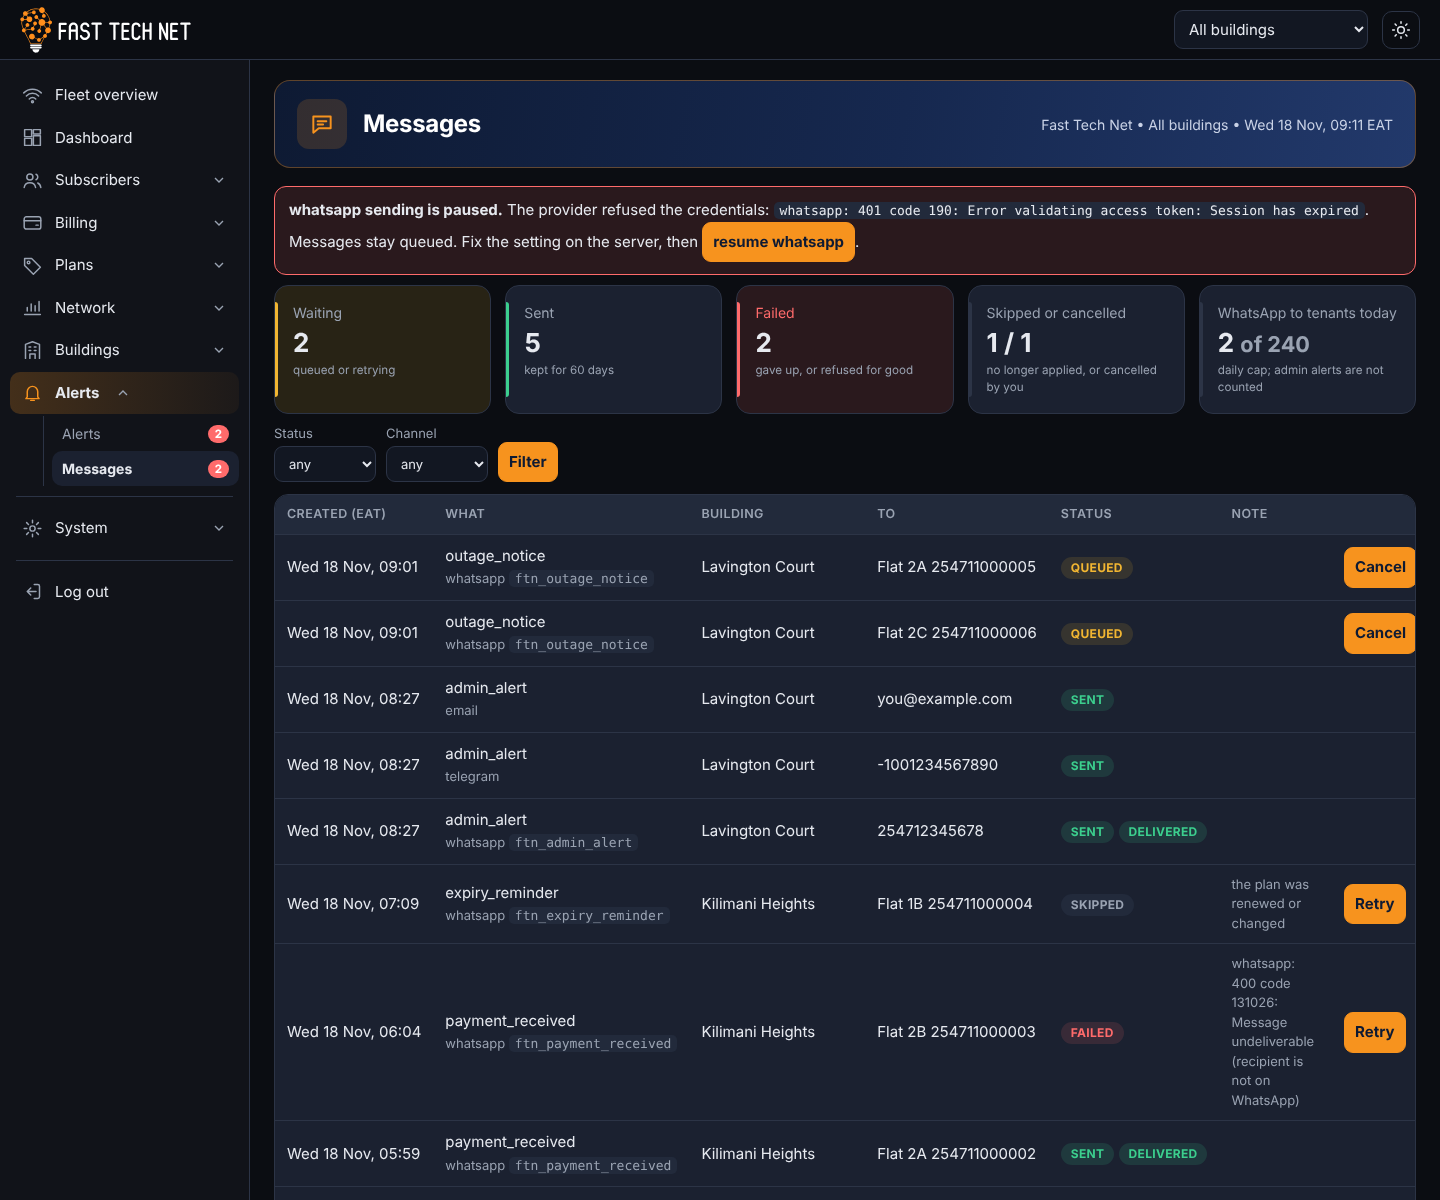
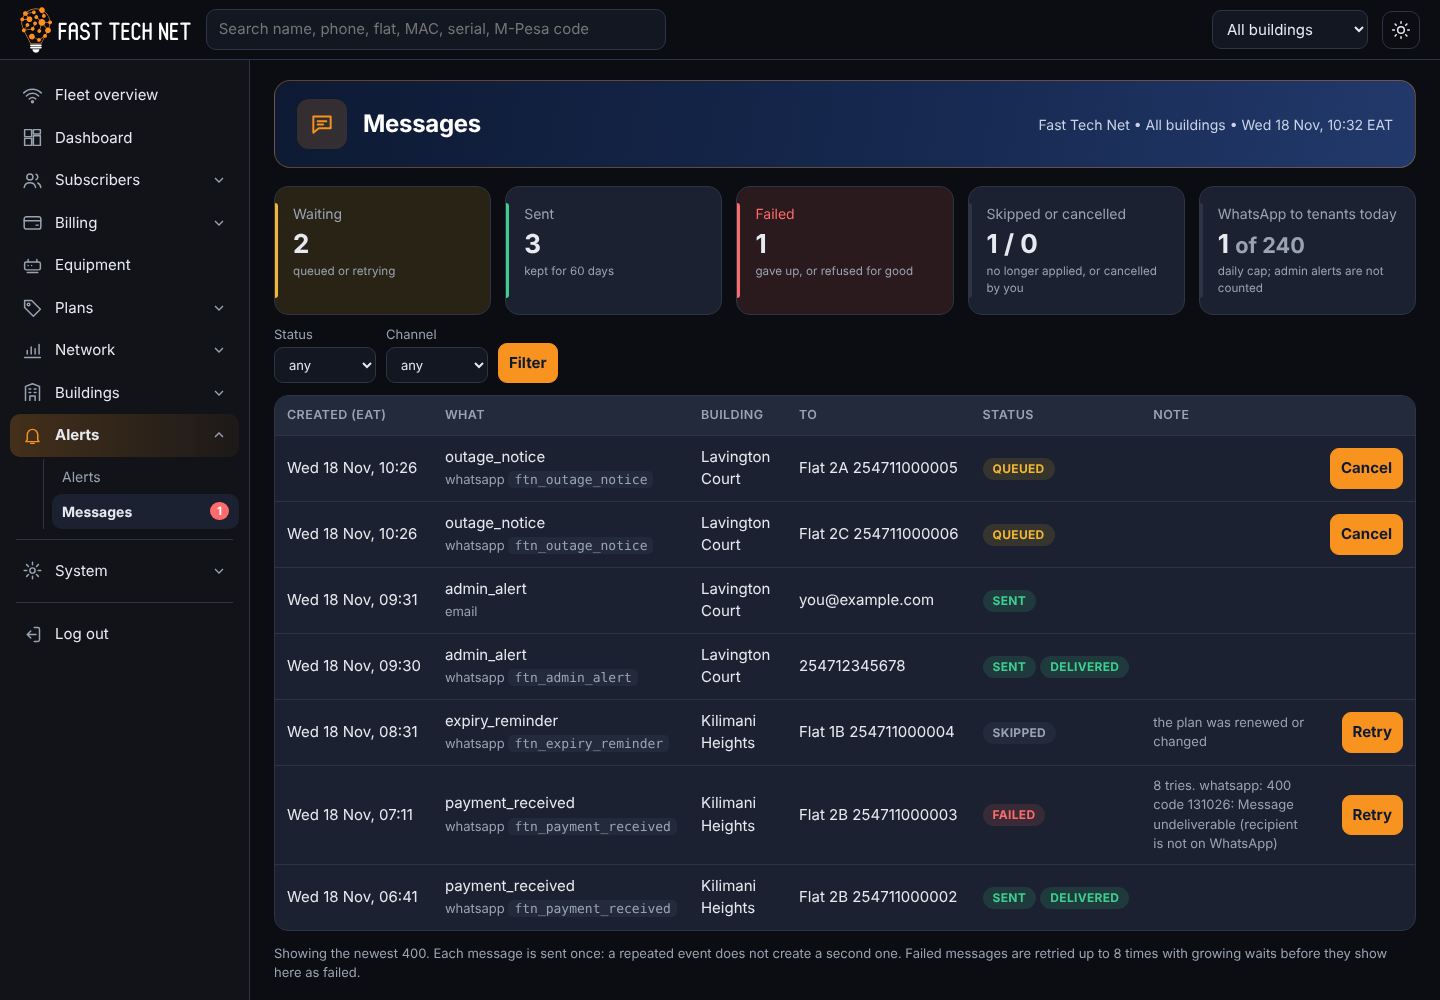
web: Messages table no longer pushes Cancel/Retry past the right edge
The Note column was capped at 150 px while every other column refused to
wrap, so the table grew wider than the page at 1440 px and the action button
was clipped. The building column may now wrap, the Note column gets room, and
the action cell is right-aligned. Screenshot re-taken with sample messages.

Claude-Session: https://claude.ai/code/session_01LiZqzyK1k1cLYYiQPsw9D9

diff --git a/internal/web/templates/admin_messages.html b/internal/web/templates/admin_messages.html
@@ -11,10 +11,10 @@
 </div>
 <form method="get" class="row"><label>Status<select name="status">{{range .Data.Statuses}}<option value="{{.}}"{{if eq . $.Data.Status}} selected{{end}}>{{if .}}{{.}}{{else}}any{{end}}</option>{{end}}</select></label>
 <label>Channel<select name="channel">{{range .Data.Channels}}<option value="{{.}}"{{if eq . $.Data.Channel}} selected{{end}}>{{if .}}{{.}}{{else}}any{{end}}</option>{{end}}</select></label><button>Filter</button></form>
-<div class="tw" style="margin-top:12px"><table><tr><th>Created (EAT)</th><th>What</th>{{if .Data.ShowSite}}<th>Building</th>{{end}}<th>To</th><th>Status</th><th>Note</th><th></th></tr>
-{{range .Data.Rows}}<tr><td>{{.Created}}</td><td>{{.M.Kind}}<br><span class="muted">{{.M.Channel}}{{if .M.Template}} <code>{{.M.Template}}</code>{{end}}</span></td>{{if $.Data.ShowSite}}<td>{{.Building}}</td>{{end}}<td>{{.Who}}</td>
+<div class="tw msgs" style="margin-top:12px"><table><tr><th>Created (EAT)</th><th>What</th>{{if .Data.ShowSite}}<th>Building</th>{{end}}<th>To</th><th>Status</th><th>Note</th><th></th></tr>
+{{range .Data.Rows}}<tr><td>{{.Created}}</td><td>{{.M.Kind}}<br><span class="muted">{{.M.Channel}}{{if .M.Template}} <code>{{.M.Template}}</code>{{end}}</span></td>{{if $.Data.ShowSite}}<td class="bld">{{.Building}}</td>{{end}}<td>{{.Who}}</td>
 <td><span class="pill {{.M.Status}}">{{.M.Status}}</span>{{if and (eq .M.Status "sent") .M.Delivery (ne .M.Delivery "sent")}} <span class="pill {{.M.Delivery}}">{{.M.Delivery}}</span>{{end}}</td><td class="nw muted">{{if gt .M.Attempts 1}}{{.M.Attempts}} tries. {{end}}{{.Info}}</td>
-<td>{{if eq .M.Status "queued"}}<form method="post" action="/admin/messages/cancel" class="i"><input type="hidden" name="_csrf" value="{{$.CSRF}}"><input type="hidden" name="id" value="{{.M.ID}}"><button>Cancel</button></form>
+<td class="act">{{if eq .M.Status "queued"}}<form method="post" action="/admin/messages/cancel" class="i"><input type="hidden" name="_csrf" value="{{$.CSRF}}"><input type="hidden" name="id" value="{{.M.ID}}"><button>Cancel</button></form>
 {{else if or (eq .M.Status "failed") (eq .M.Status "skipped") (eq .M.Status "cancelled")}}<form method="post" action="/admin/messages/retry" class="i"><input type="hidden" name="_csrf" value="{{$.CSRF}}"><input type="hidden" name="id" value="{{.M.ID}}"><button>Retry</button></form>{{end}}</td></tr>
 {{else}}<tr><td colspan="8">No messages{{if or .Data.Status .Data.Channel}} match this filter{{else}} yet{{end}}.</td></tr>{{end}}</table></div>
 <p class="muted">Showing the newest 400. Each message is sent once: a repeated event does not create a second one. Failed messages are retried up to 8 times with growing waits before they show here as failed.</p>

diff --git a/internal/web/templates/admin_layout.html b/internal/web/templates/admin_layout.html
@@ -57,6 +57,8 @@ form.i{display:inline}.card{background:var(--card);border:1px solid var(--line);
 .pill{display:inline-block;padding:2px 10px;border-radius:99px;font-size:12px;font-weight:700;letter-spacing:.3px;text-transform:uppercase}
 .pill.active,.pill.applied{background:var(--goodbg);color:var(--good)}.pill.expired,.pill.new,.pill.unmatched{background:var(--warnbg);color:var(--warn)}.pill.suspended,.pill.refunded{background:var(--badbg);color:var(--bad)}.pill.ignored,.pill.returned,.pill.retired{background:var(--card2);color:var(--muted)}.pill.installed{background:var(--goodbg);color:var(--good)}.pill.in_stock{background:var(--warnbg);color:var(--warn)}.pill.faulty{background:var(--badbg);color:var(--bad)}
 .flag.ok{color:var(--ink)}.tw td{white-space:nowrap}.tw td.nw{white-space:normal;max-width:150px}
+/* messages: let text columns wrap so the Cancel/Retry button is never pushed past the edge */
+.tw.msgs td.bld{white-space:normal}.tw.msgs td.nw{max-width:none;min-width:130px}.tw.msgs td.act{text-align:right;width:1%}
 .flag{padding:12px 14px;border-radius:12px;margin:8px 0;background:var(--card);border:1px solid var(--line);border-left:4px solid var(--good)}.flag.warn{border-left-color:var(--warn);background:var(--warnbg)}.flag.nodata{border-left-color:var(--muted)}
 .seg{display:inline-flex;border:1px solid var(--line);border-radius:10px;overflow:hidden}.seg a{padding:6px 14px;text-decoration:none;color:var(--muted);border-right:1px solid var(--line)}.seg a:last-child{border-right:0}.seg a.on{background:var(--accent2);color:var(--onaccent);font-weight:600}
 .ftile{padding:16px 18px;border-radius:14px;background:var(--card);border:1px solid var(--line);border-left:4px solid var(--line);font-size:14px;color:var(--muted)}
